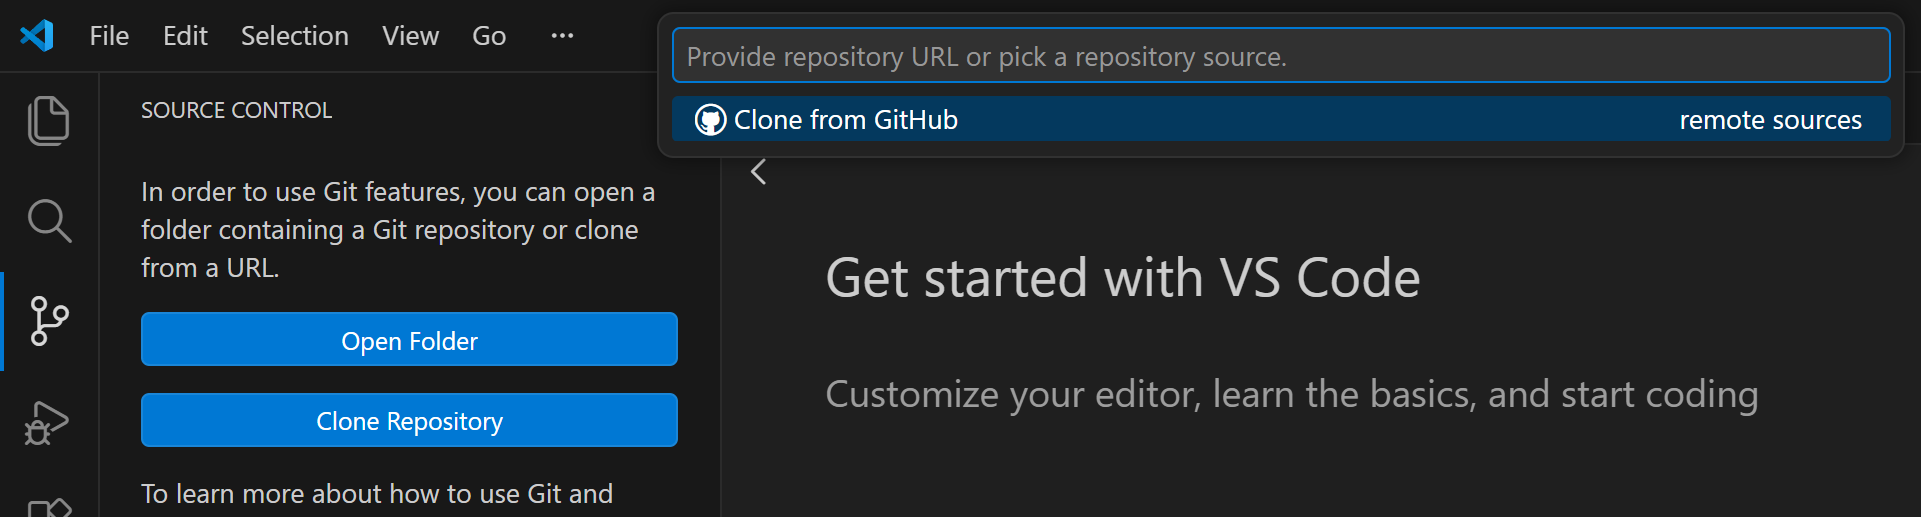
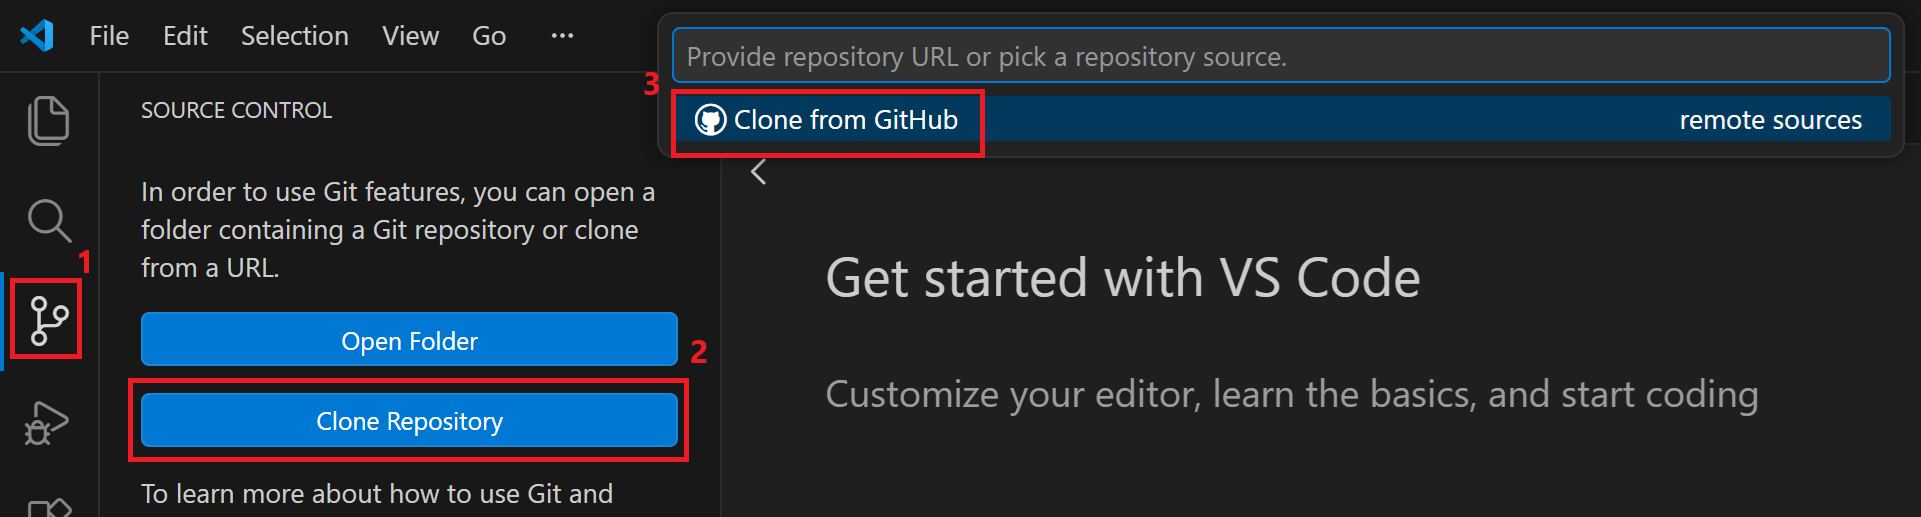
feat: added content to docs/edit-existing.md

diff --git a/docs/edit-existing.md b/docs/edit-existing.md
@@ -15,72 +15,55 @@ staff:
 
 If you are editing an existing guide, you would need to clone (download) the GitHub repository to your local machine first.
 
-## Clone the GitHub repository
+## Clone the GitHub repository in VS code
 
 {: .important }
 > Here is a sandbox repository to test your access rights/connection:
->[MDLutoronto/just-the-docs-sandbox-stduents](https://github.com/MDLutoronto/just-the-docs-sandbox-students)
+>[MDLutoronto/jtd-student-sandbox](https://github.com/MDLutoronto/jtd-student-sandbox).
 > After logging in with your account that has access to the MDL GitHub repository, you should be able to view the (private) repository in your web browser.
 
-1. Open a (Windows) PowerShell Terminal
-    <a href="{{ '/assets/images/01_powershell.gif' | relative_url }}" target="_blank">
-    <img src="{{ '/assets/images/01_powershell.gif' | relative_url }}" 
-        alt="Open PowerShell"
+1. Open VS Code, then click on the 'Source Control' icon on the left sidebar (or press Ctrl+Shift+G) to open the Source Control panel. Next, click on the 'Clone Repository' button. You should then see a prompt at the top of the window showing 'Clone from GitHub'. Click on it.
+
+    <a href="{{ '/assets/images/clone-from-vscode/source-control-clone.png' | relative_url }}" target="_blank">
+    <img src="{{ '/assets/images/clone-from-vscode/source-control-clone.png' | relative_url }}" 
+        alt="Clone Repository in VS Code"
         style="width:600px; display:block; margin:auto;">
     </a>
 
-2. Get the GitHub repository link to clone
+2. A drop-down menu will appear, showing the repositories you have access to. Select or type the name of the repository you want to clone (i.e. download) to your local machine.
 
-    1. Go to the intended GitHub repository page in your web browser (e.g. [MDLutoronto/jtd-student-sandbox](https://github.com/MDLutoronto/jtd-student-sandbox))
-    2. Click on the green `Code` button on the top right of the repository file list
-    3. Make sure the `HTTPS` tab is selected, then click on the clipboard icon to copy the repository link
-    <img src="{{ '/assets/images/get-repo-link.png' | relative_url }}" 
-        alt="Get GitHub Repo Clone Link"
-        style="width:500px; display:block; margin:auto;">
+    <a href="{{ '/assets/images/clone-from-vscode/list-of-repos.png' | relative_url }}" target="_blank">
+    <img src="{{ '/assets/images/clone-from-vscode/list-of-repos.png' | relative_url }}" 
+        alt="List of repositories in VS Code"
+        style="width:600px; display:block; margin:auto;">
+    </a>
+    The format of repository name of MDL GitHub  is `MDLutoronto/${repository-name}`. For example, the sandbox repository is `MDLutoronto/jtd-student-sandbox`.
 
-3. Type the command below in a powershell terminal to clone a GitHub repository. Replace the git_link with the intended GitHub repository link.
+3. Once you select the repository, you will be prompted to choose a local directory to save the cloned repository. Choose a location on your computer where you want to store the project files, then click 'Select as Repository Location'. You will see a message in the bottom right corner of the VS Code window saying 'Cloning git repository...'.
+    <a href="{{ '/assets/images/clone-from-vscode/cloning-git-repo.png' | relative_url }}" target="_blank">
+    <img src="{{ '/assets/images/clone-from-vscode/cloning-git-repo.png' | relative_url }}" 
+        alt="Cloning Git repository in VS Code"
+        style="width:300px; display:block; margin:auto;">
+    </a>
 
-    ```powershell
-    git clone $git_link
-    ```
+4. After the cloning process is complete, you will see a message in the middle asking if you want to open the cloned repository. Click 'Open' to open the repository in VS Code.
 
-    For example, if you want to clone the sandbox repository above (with the .git link https://github.com/MDLutoronto/jtd-student-sandbox.git), you will input
-    ```powershell 
-    git clone https://github.com/MDLutoronto/jtd-student-sandbox.git
-    ```
+    <a href="{{ '/assets/images/clone-from-vscode/open-repo.png' | relative_url }}" target="_blank">
+    <img src="{{ '/assets/images/clone-from-vscode/open-repo.png' | relative_url }}" 
+        alt="'Would you like to open the cloned repository?' prompt in VS Code"
+        style="width:300px; display:block; margin:auto;">
+    </a>
 
-    {: .highlight-title }
-    > Tip
-    >
-    > You can right-click on the terminal to paste the copied text to the terminal
+5. You should see the repository name in the left sidebar of VS Code (as the same as the local folder name). You can click on the 'Explorer' icon, then choose 'index.md' under docs to view the content of the guide in markdown format. You can edit the content in this file to make changes to the guide.
 
-    <a href="{{ '/assets/images/03_gh-clone.gif' | relative_url }}" target="_blank">
-    <img src="{{ '/assets/images/03_gh-clone.gif' | relative_url }}" 
-        alt="GitHub Repo Clone"
+    <a href="{{ '/assets/images/clone-from-vscode/open-index_md.png' | relative_url }}" target="_blank">
+    <img src="{{ '/assets/images/clone-from-vscode/open-index_md.png' | relative_url }}" 
+        alt="Open index.md file in VS Code"
         style="width:600px; display:block; margin:auto;">
     </a>
 
-
-## Enter the repository directory
-
-1. Once you have cloned the repository, type `cd $directory_name` to *change the directory* (`cd`) of the terminal to the repository directory.
-    
-    The `directory_name` by default is the repository name (slug). As for the example above, it is `jtd-student-sandbox`
-
-    {: .highlight-title }
-    > Tip
-    >
-    > To utilize the auto-complete function (avoid typing the long string), type a few characters and press `Tab` to let the terminal finish it.
-
-    <a href="{{ '/assets/images/04-cd_dir.gif' | relative_url }}" target="_blank">
-    <img src="{{ '/assets/images/04-cd_dir.gif' | relative_url }}" 
-        alt="Change Directory in PowerShell"
-        style="width:600px; display:block; margin:auto;">
-    </a>
-
-    You should see the prompt in the terminal changed to PS H:\just-the-docs-sandbox-students> with the above example
-
-2. Type `code .`  in the terminal to initialize the VS Code for this repository directory.
+# Next steps
+After changing the content, you can preview the website. See this
 
 ## To preview the website
 
